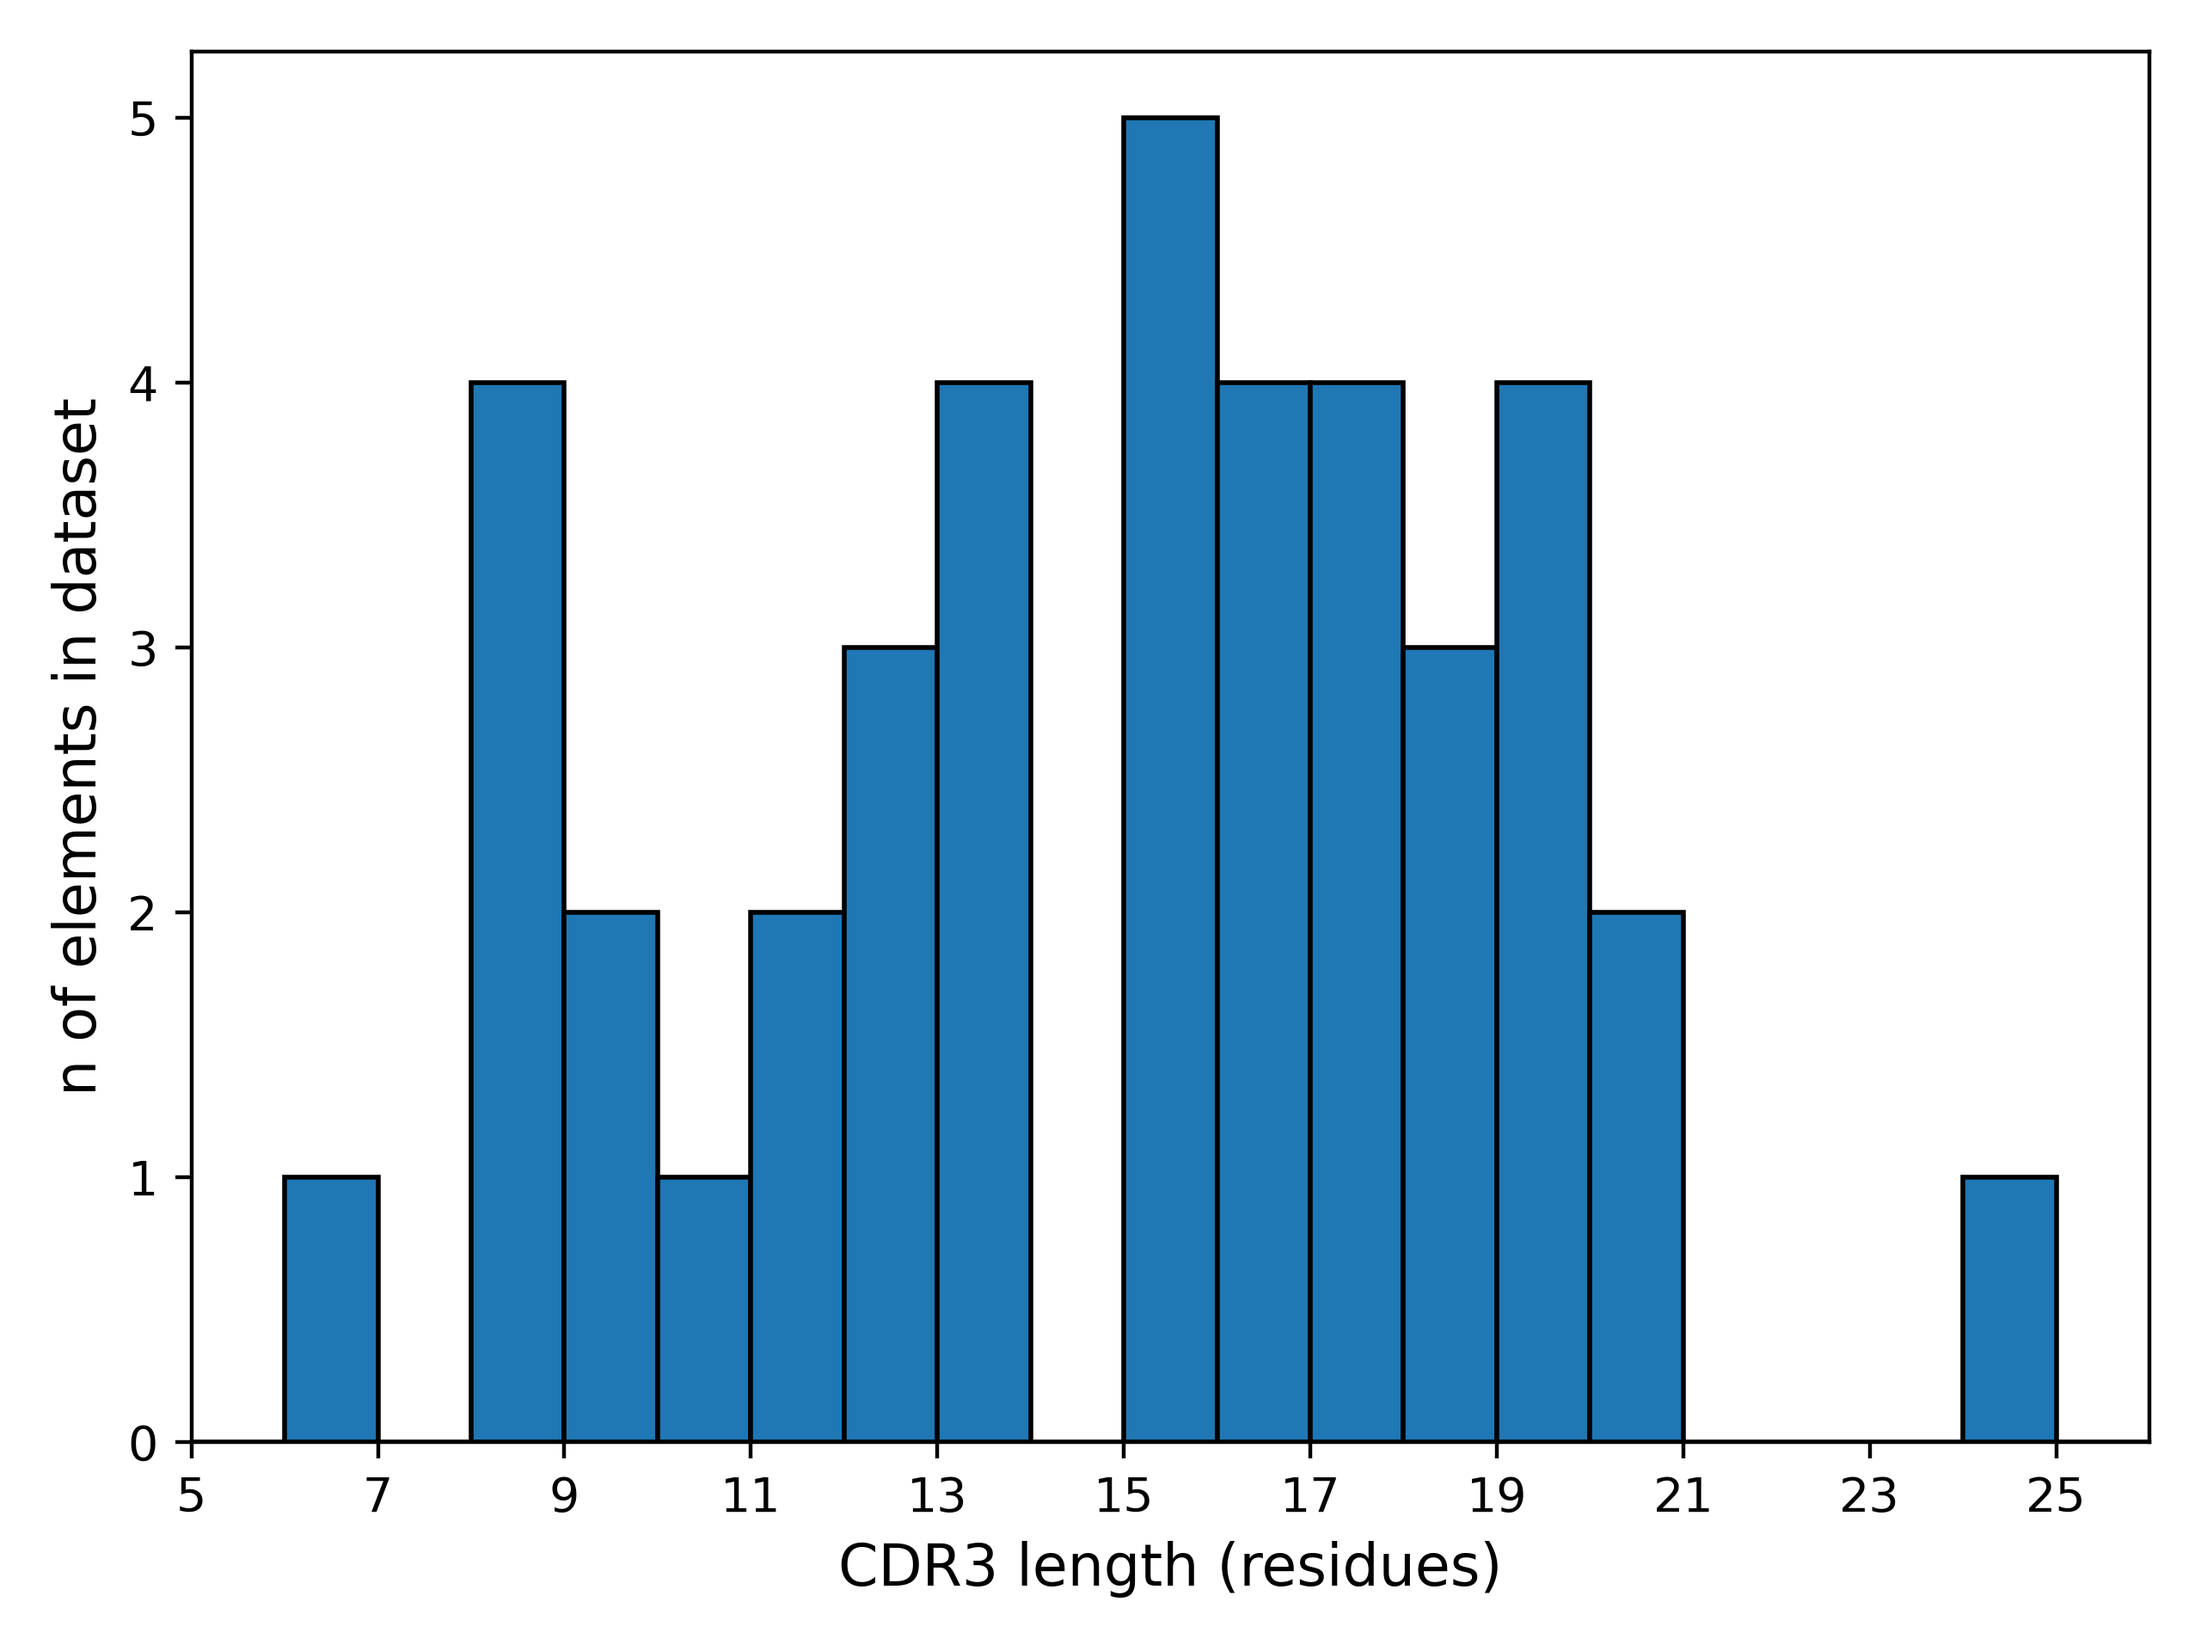
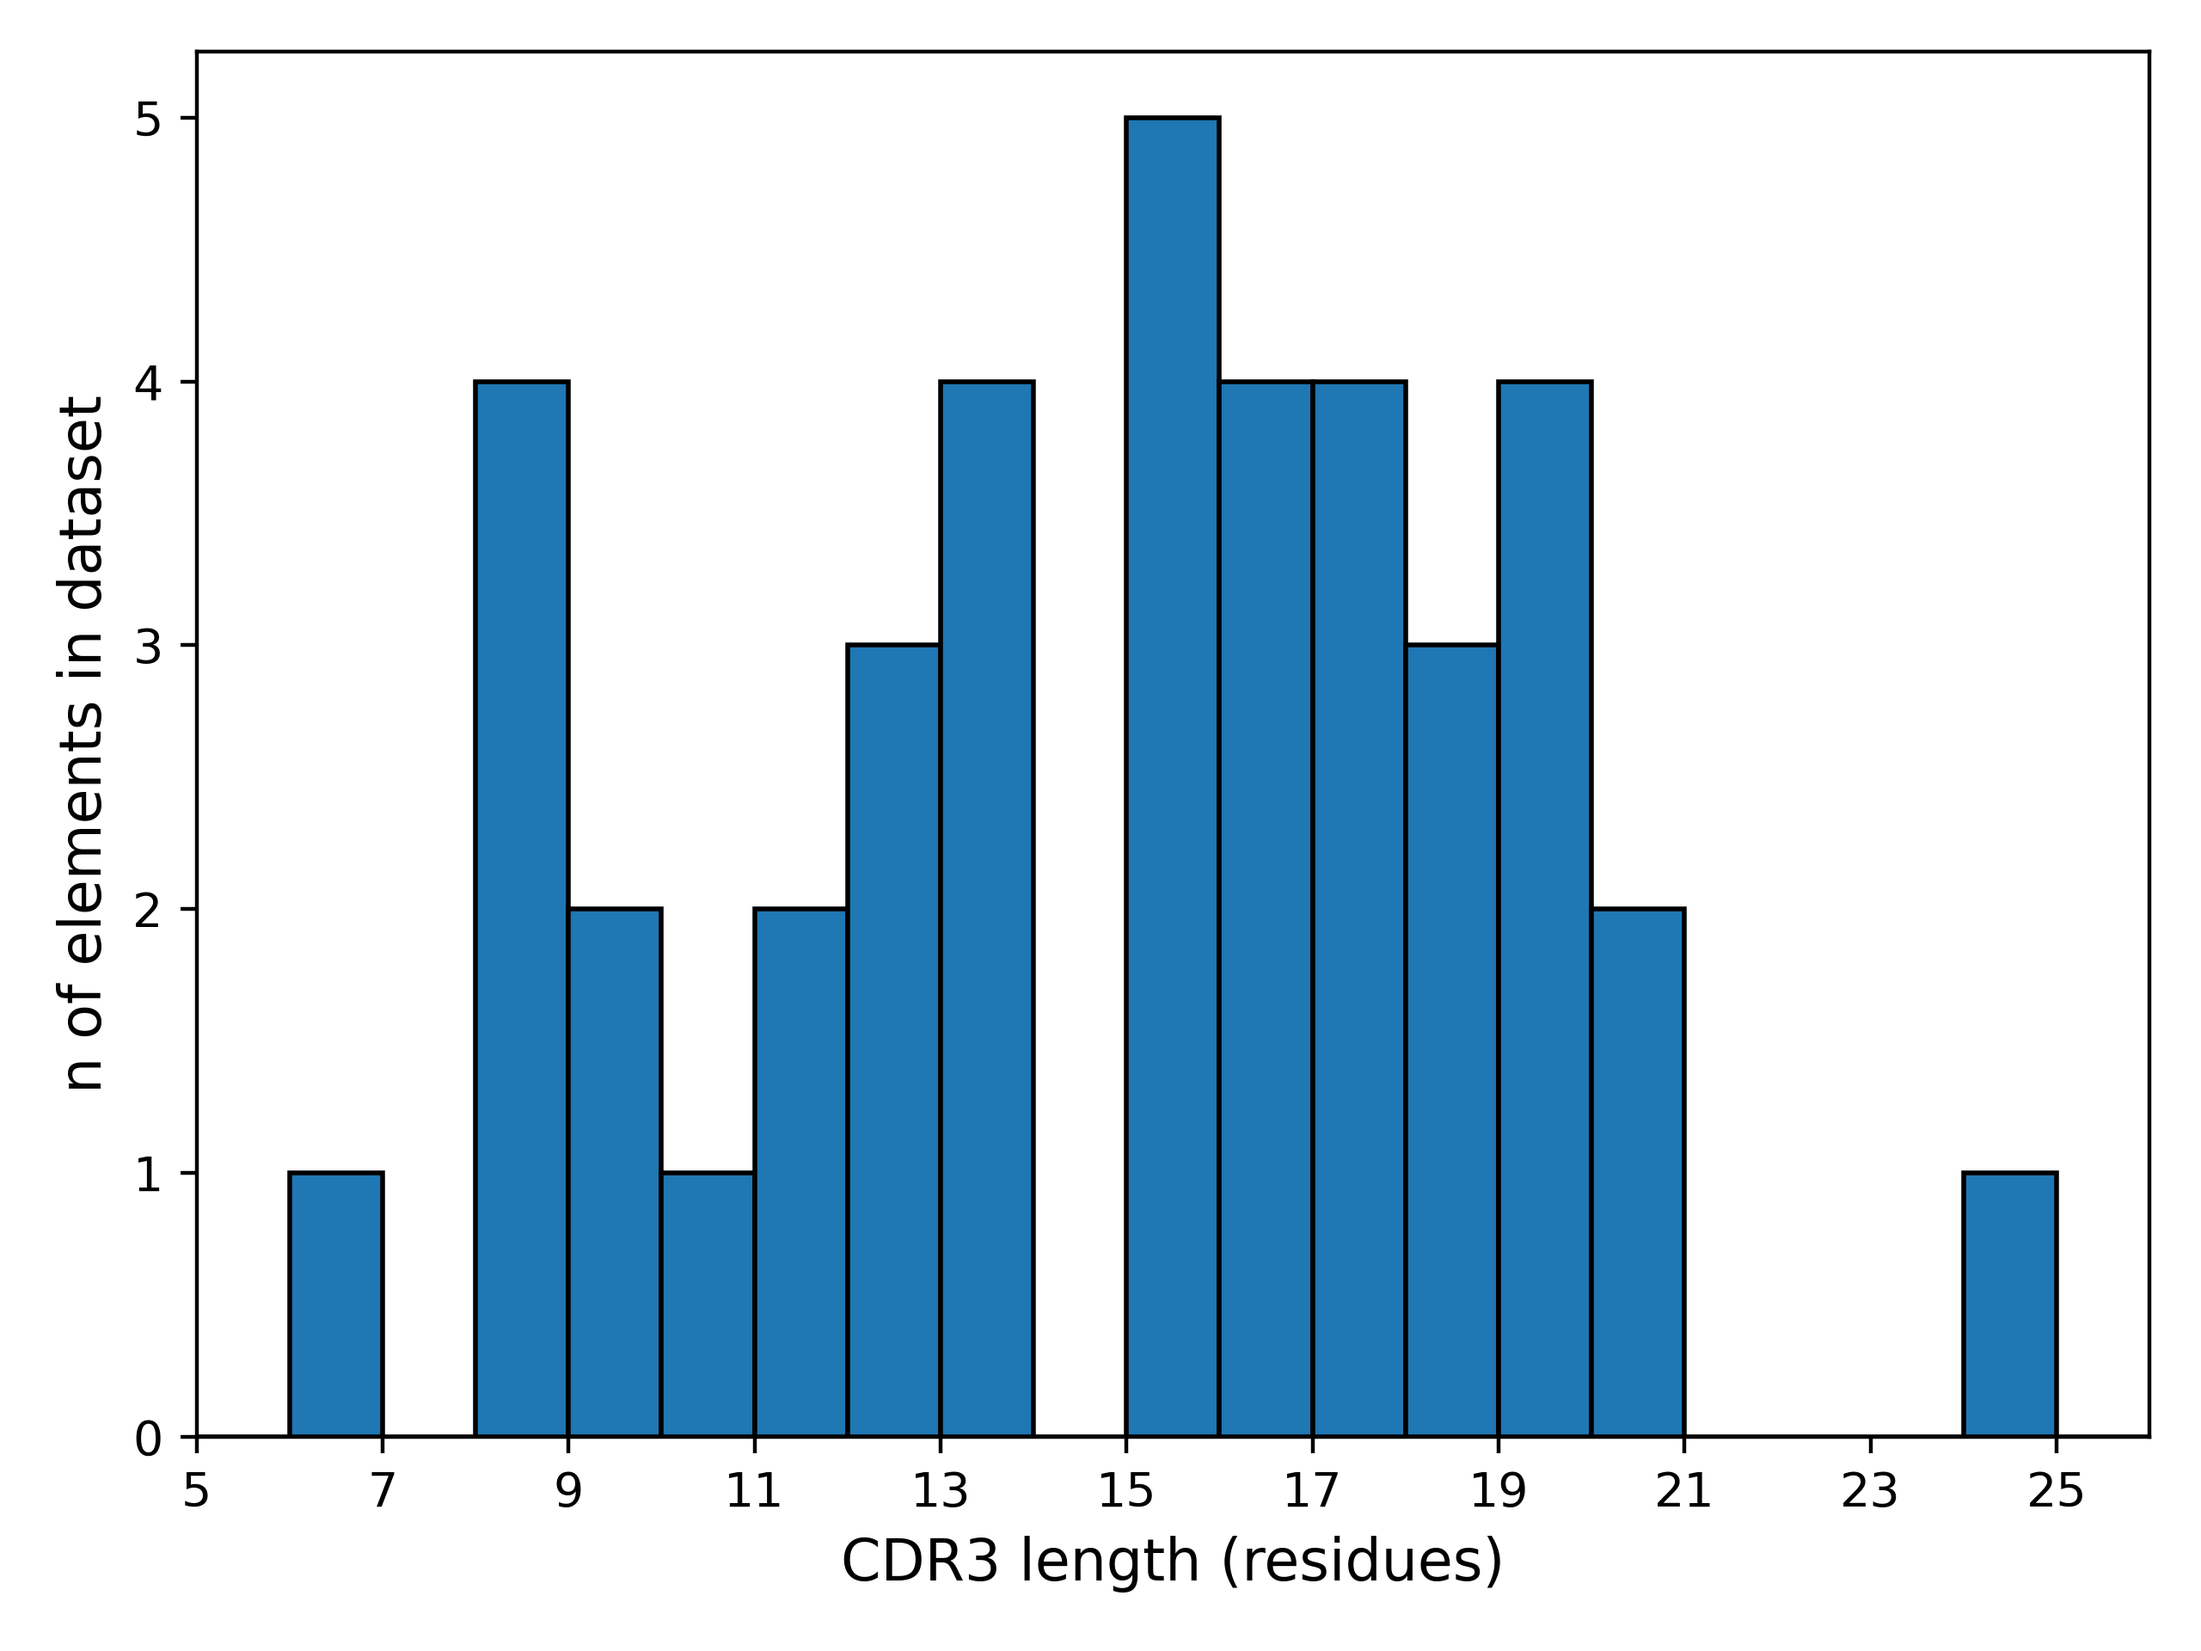
added antigen size distribution analysis

diff --git a/analysis/dataset_variability_analysis.py b/analysis/dataset_variability_analysis.py
@@ -14,3 +14,15 @@ plt.xlim(5, 26)
 plt.xticks(range(5, 27, 2))
 plt.tight_layout()
 plt.savefig(Path("figures", "cdr3_length_distribution.png"), dpi=400)
+plt.close()
+
+
+antigen_size_df = pd.read_csv(Path("..","data", "antigen_size.tsv"), sep="\t")
+plt.hist(antigen_size_df["size (kDa)"], bins=range(0, 61, 5), edgecolor='black', color='orange')
+plt.xlabel("Antigen size (kDa)", fontsize=12)
+plt.ylabel("n of elements in dataset", fontsize=12)
+plt.xlim(0, 60)
+plt.xticks(range(0, 61, 10))
+plt.tight_layout()
+plt.savefig(Path("figures", "antigen_size_distribution.png"), dpi=400)
+plt.close()
